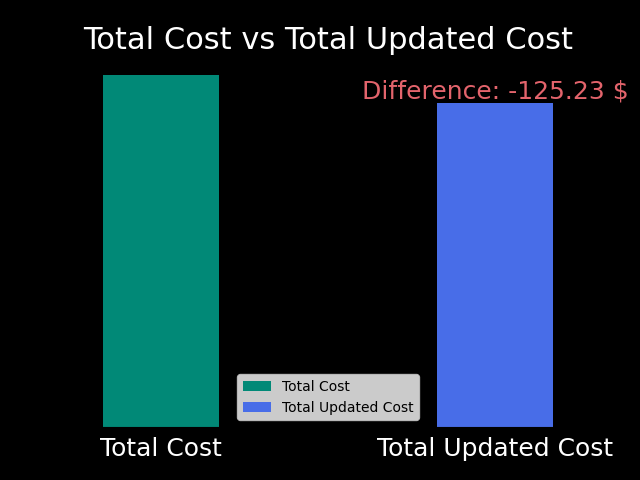
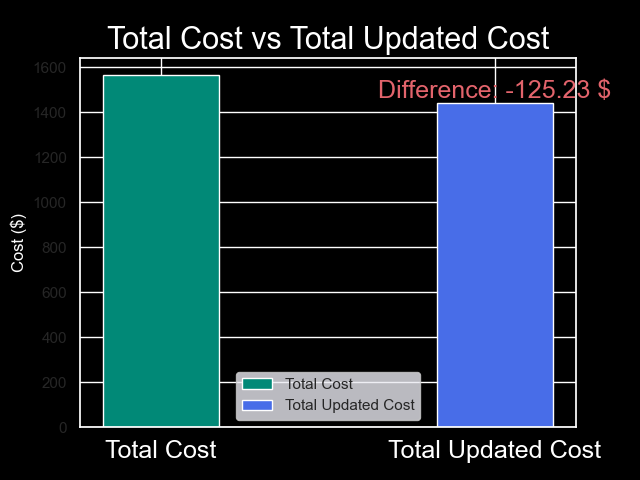
temp

Changed region(s): [[0.0, 0.0312, 1.0, 0.9688], [0.0625, 0.4062, 0.0938, 0.4375], [0.0625, 0.2188, 0.0938, 0.25]]

diff --git a/app.py b/app.py
@@ -96,8 +96,8 @@ def plot_costs_side_by_side(input_data, output_folder='graphs'):
     bar2 = ax.bar(positions[1], total_updated_cost, bar_width, label='Total Updated Cost', color='#486DE8')  # Specify color for the bar
 
     # Set labels and title
-    ax.set_xlabel('Category')
-    ax.set_ylabel('Cost ($)')
+    ax.set_xlabel('Category',color='black')
+    ax.set_ylabel('Cost ($)',color='white')
     ax.set_title('Total Cost vs Total Updated Cost', fontsize=22, color='white')  # Set title text color
     ax.set_xticks(positions)
     ax.set_xticklabels(['Total Cost', 'Total Updated Cost'], fontsize=18,color='white')  # Set font size for x-axis labels
